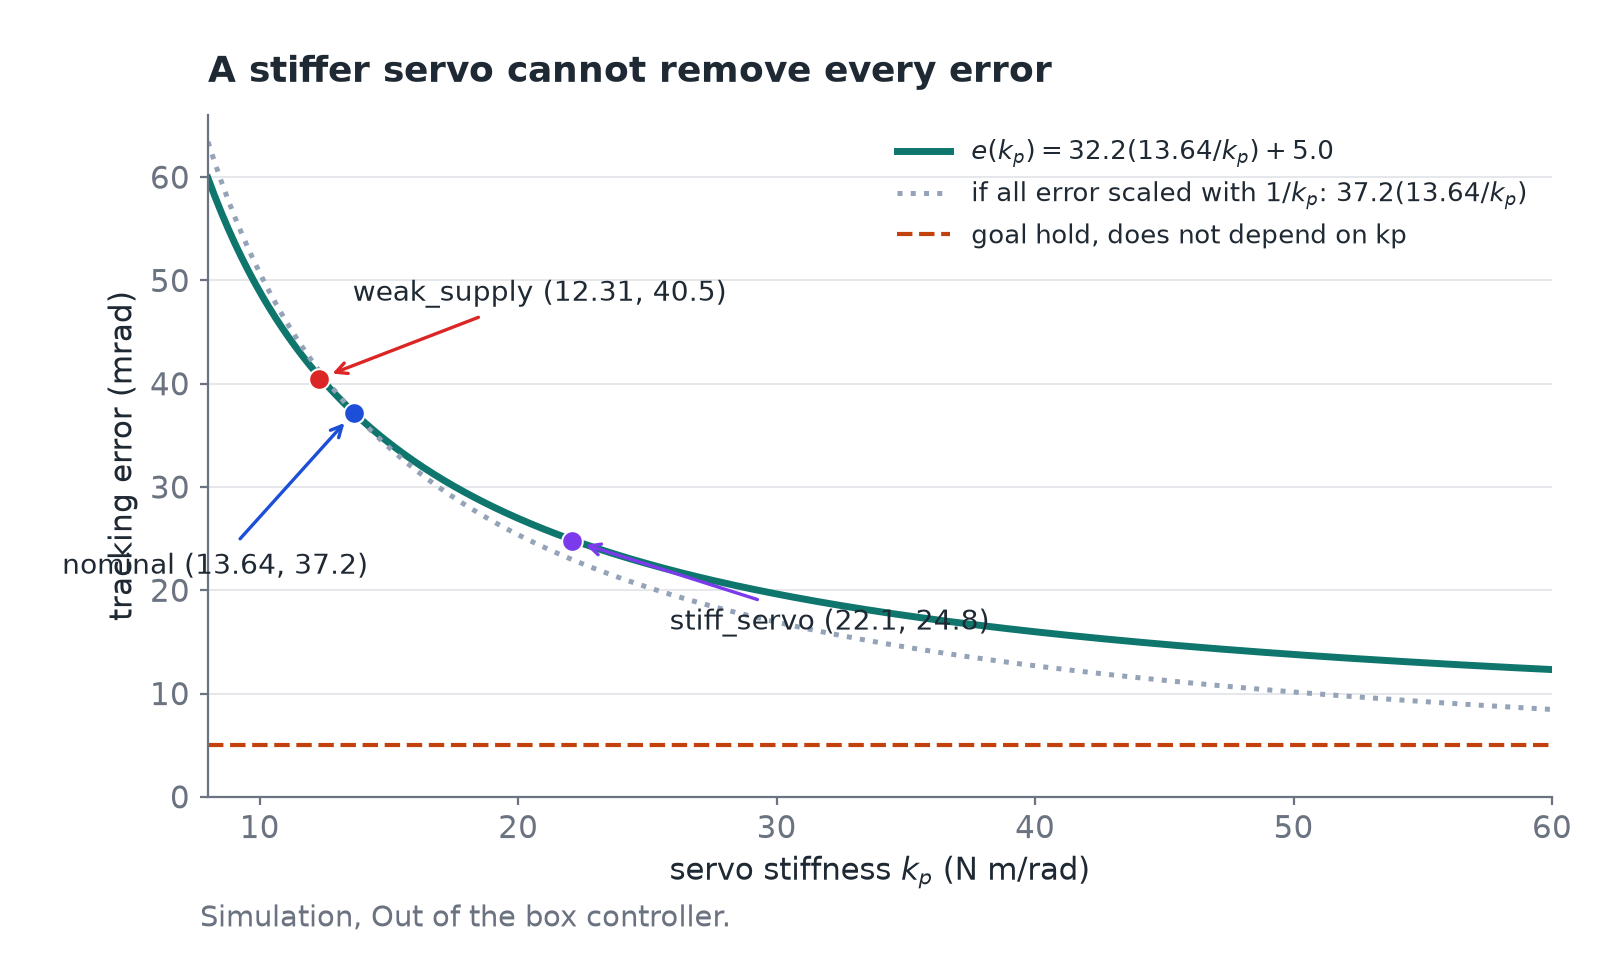
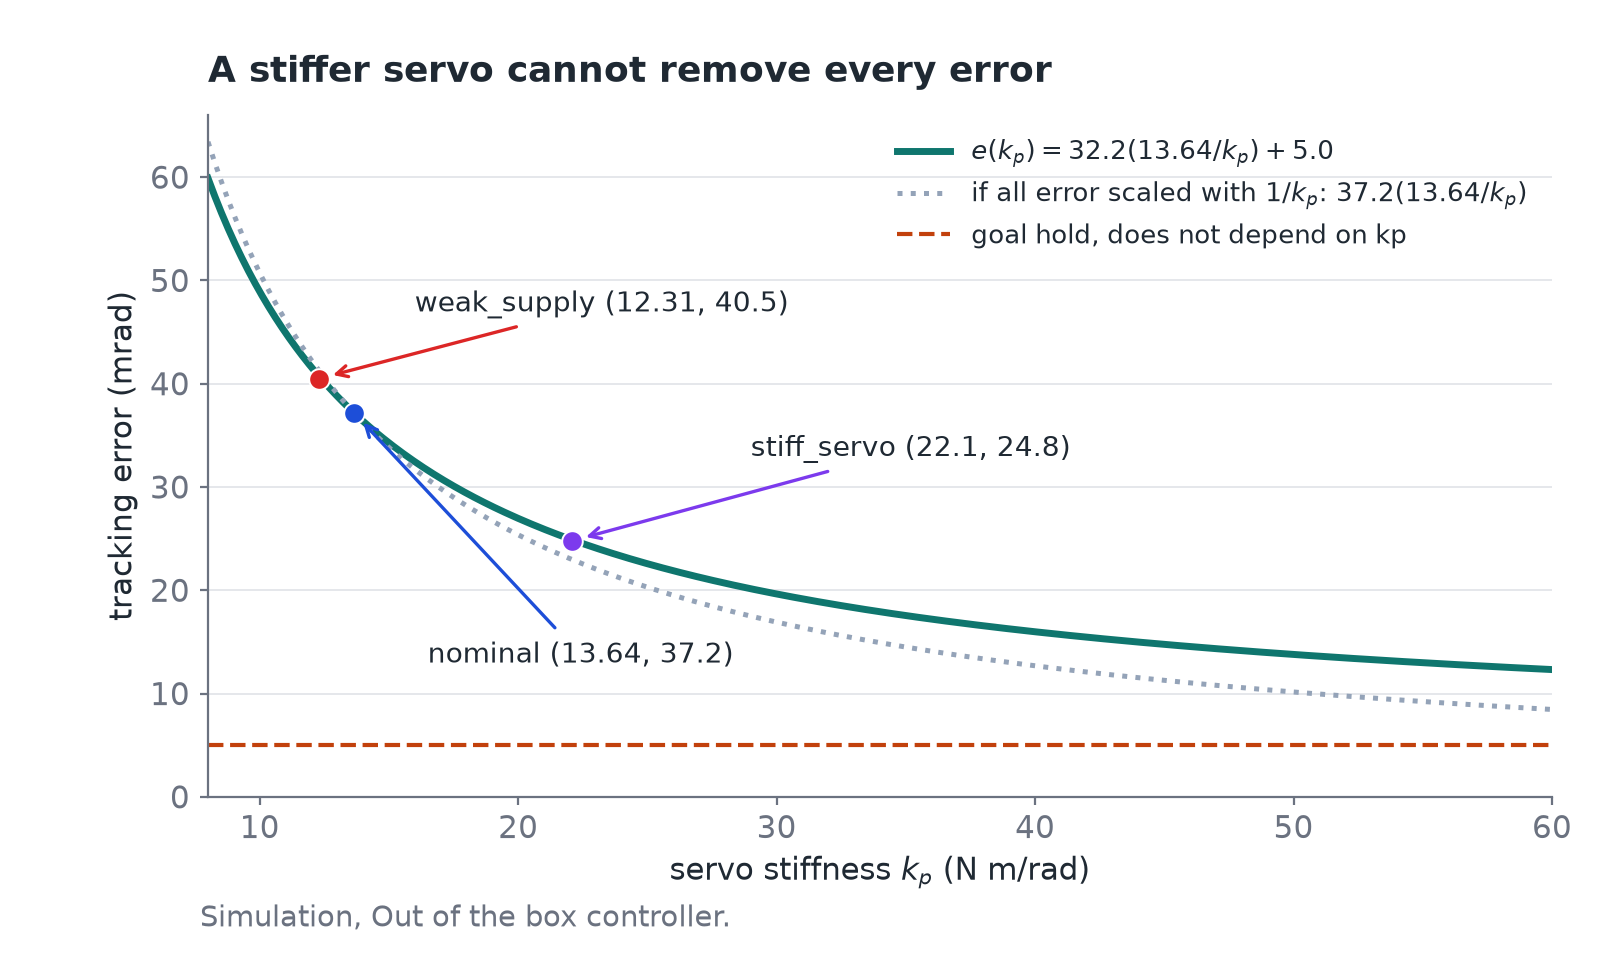
SO-101 series figures: fix label overlaps and axis labels

diff --git a/scripts/so101_figures.py b/scripts/so101_figures.py
@@ -5,6 +5,7 @@ from pathlib import Path
 
 import matplotlib
 matplotlib.use("Agg")
+import matplotlib.ticker
 import matplotlib.pyplot as plt
 from matplotlib.patches import FancyArrowPatch, Rectangle, Circle
 import numpy as np
@@ -314,14 +315,14 @@ def error_vs_kp():
     ax.axhline(5.0, color=ORANGE, lw=1.5, ls="--",
                label="goal hold, does not depend on kp")
     points = [
-        (13.64, 37.2, "nominal", BLUE, (-105, -58)),
-        (12.31, 40.5, "weak_supply", RED, (12, 28)),
-        (22.1, 24.8, "stiff_servo", PURPLE, (35, -32)),
+        (13.64, 37.2, "nominal", BLUE, (16.5, 13.0)),
+        (12.31, 40.5, "weak_supply", RED, (16.0, 47.0)),
+        (22.1, 24.8, "stiff_servo", PURPLE, (29.0, 33.0)),
     ]
     for x, y, label, color, offset in points:
         ax.scatter(x, y, s=55, color=color, edgecolor="white", linewidth=0.7, zorder=4)
         ax.annotate(f"{label} ({x:g}, {y:g})", (x, y), xytext=offset,
-                    textcoords="offset points", fontsize=10, color=INK,
+                    textcoords="data", fontsize=10, color=INK,
                     arrowprops={"arrowstyle": "->", "color": color, "lw": 1.2,
                                 "shrinkA": 4, "shrinkB": 5})
     ax.set_xlim(8, 60)
@@ -484,7 +485,7 @@ def lag_on_path():
     if lag_s > 0:
         ax.annotate("", xy=(delayed_feature_time, y_annot), xytext=(feature_time, y_annot),
                     arrowprops={"arrowstyle": "<->", "color": PURPLE, "lw": 1.6})
-        ax.text((feature_time + delayed_feature_time) / 2, y_annot + 0.7,
+        ax.text((feature_time + delayed_feature_time) / 2, y_annot + 2.5,
                 f"about {abs(lag_s) * 1000:.0f} ms late", ha="center",
                 fontsize=10, color=PURPLE)
     else:
@@ -492,7 +493,7 @@ def lag_on_path():
                 transform=ax.transAxes, fontsize=10, color=PURPLE,
                 bbox={"facecolor": "white", "edgecolor": "none", "pad": 1.0})
     ax.set_xlim(0, 6)
-    ax.set_xlabel(f"time from {start:g} s (s)")
+    ax.set_xlabel("time (s)")
     ax.set_ylabel("shoulder_lift angle (degrees)")
     ax.set_title("Real arm, direct control: the joint runs behind the target",
                  loc="left", pad=12, weight="bold")
@@ -973,10 +974,8 @@ def real_arm_joints():
         bars = ax.bar(x + (index - 1) * width, values[name], width,
                       color=CONTROLLER[name], label=name)
         for bar_index, bar in enumerate(bars):
-            value_offset = -0.10 if bar_index == len(joints) - 1 and index < 2 else 0.2
-            ax.text(bar.get_x() + bar.get_width() / 2, bar.get_height() + value_offset,
-                    f"{bar.get_height():g}", ha="center",
-                    va="top" if value_offset < 0 else "bottom", fontsize=8.8)
+            ax.text(bar.get_x() + bar.get_width() / 2, bar.get_height() + 0.2,
+                    f"{bar.get_height():g}", ha="center", va="bottom", fontsize=7.8)
     ax.set_xticks(x, joints, rotation=0)
     ax.set_ylabel("RMS tracking error (mrad)")
     ax.set_ylim(0, 14.2)
@@ -1194,6 +1193,7 @@ def data_curves():
     ax.set_xticks([1, 2, 4, 8, 16], ["1", "2", "4", "8", "16"])
     ax.set_yscale("log")
     ax.set_yticks([3, 5, 10, 20, 30], ["3", "5", "10", "20", "30"])
+    ax.yaxis.set_minor_formatter(matplotlib.ticker.NullFormatter())
     ax.set_xlim(0.9, 19)
     ax.set_ylim(2.6, 45)
     ax.set_xlabel("real data (minutes, log scale)")
@@ -1222,7 +1222,7 @@ def residual():
     add_arrow(ax, (2.02, 3.48), (2.54, 3.00), BLUE)
     add_arrow(ax, (2.02, 2.22), (2.54, 2.77), RED)
     ax.text(2.28, 2.92, "+", ha="center", va="center", fontsize=18, color=INK)
-    ax.text(2.28, 2.18, "residual", ha="center", fontsize=9.5, color=RED)
+    ax.text(2.15, 1.62, "residual", ha="center", fontsize=9.5, color=RED)
     ax.text(2.15, 0.85, "physics + learned correction", ha="center",
             fontsize=9.3, color=MUTED)
 
